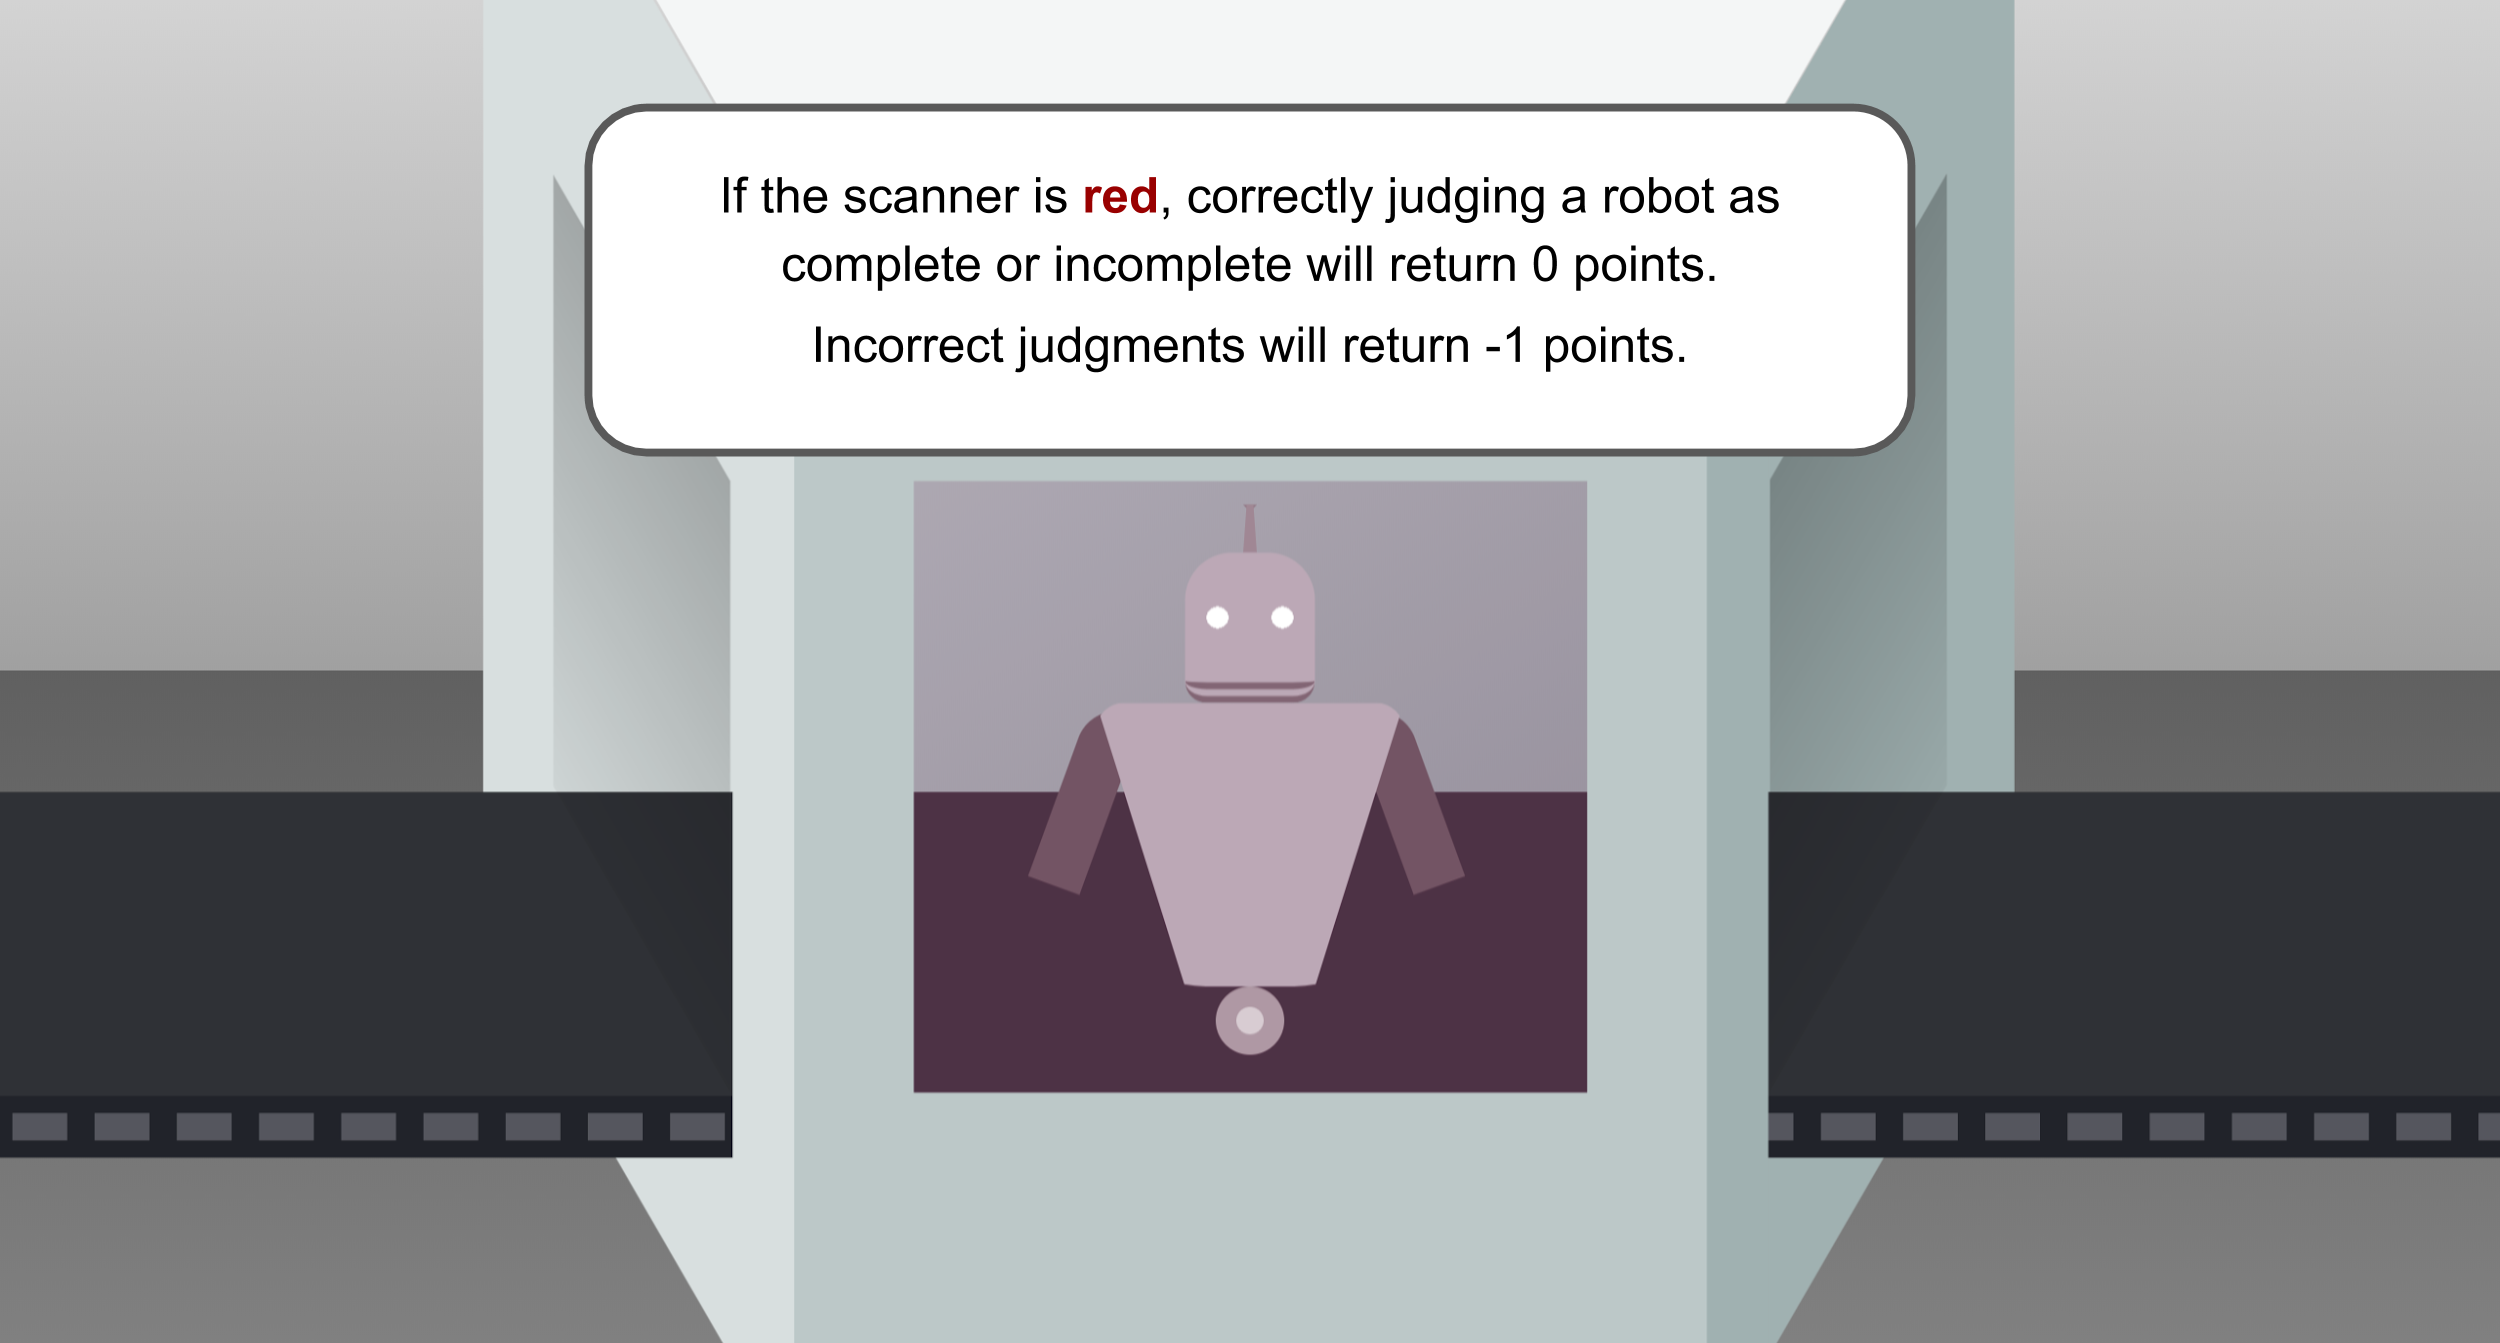
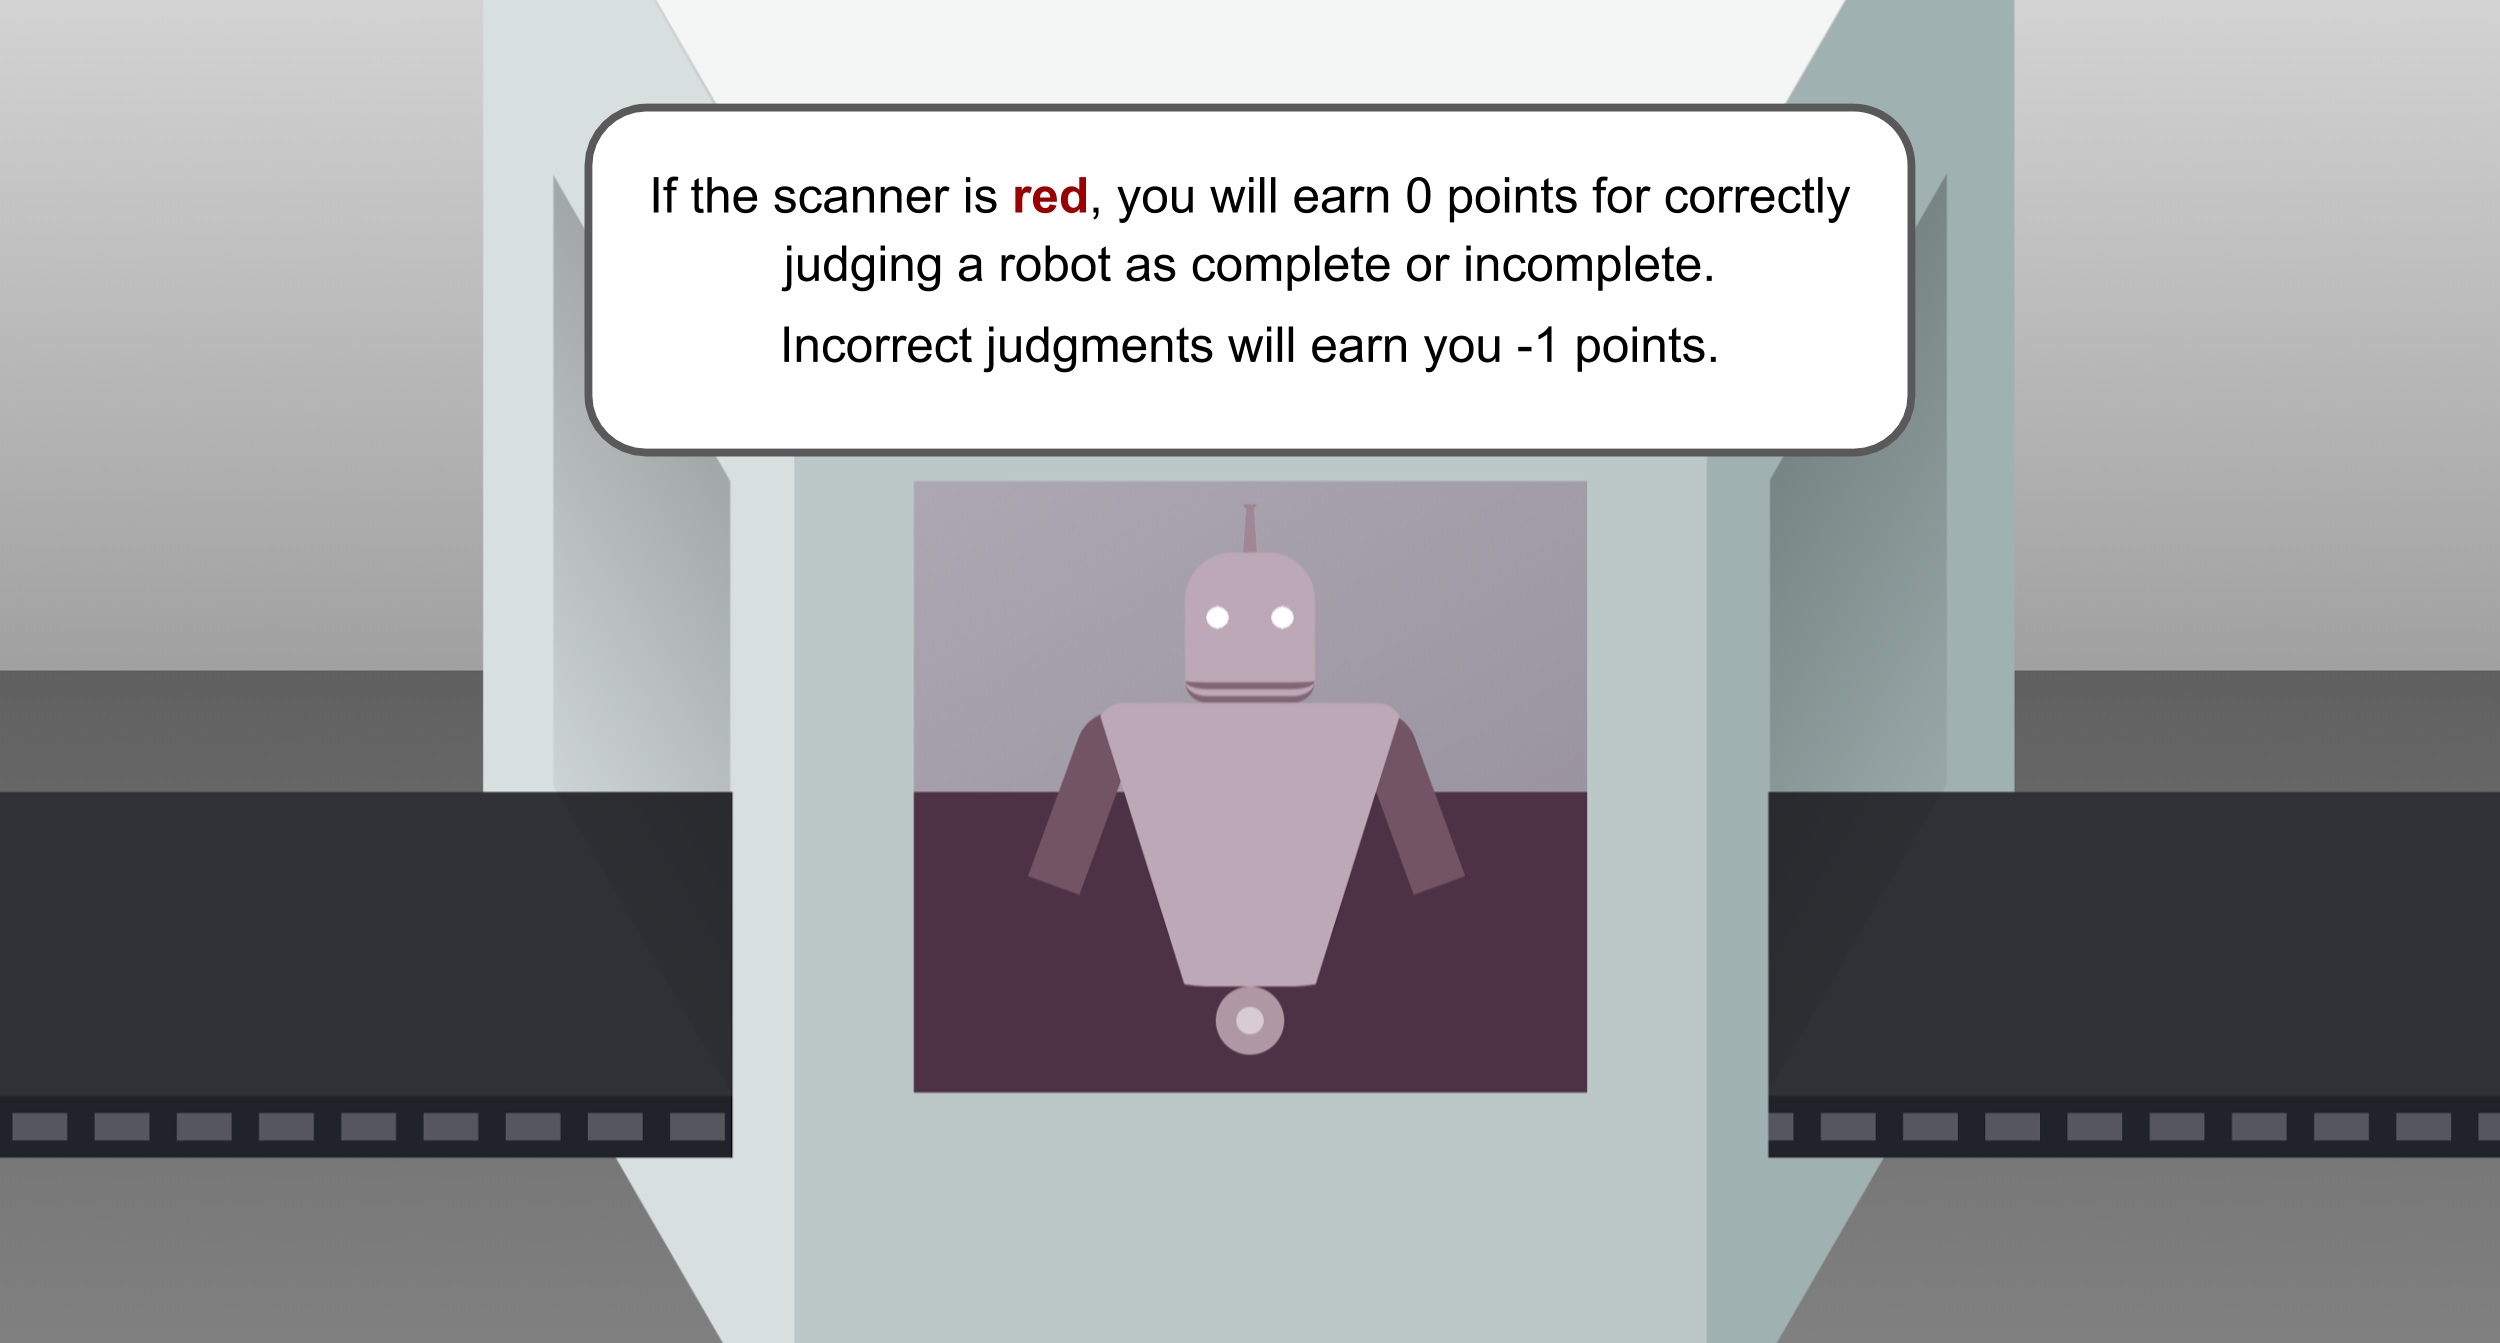
changes requested by yael

Changed region(s): [[0.2496, 0.1221, 0.7488, 0.2137], [0.312, 0.2442, 0.6864, 0.2748]]

diff --git a/app/static/js/jspsych-pit-comprehension.js b/app/static/js/jspsych-pit-comprehension.js
@@ -165,7 +165,7 @@ jsPsych.plugins['pit-comprehension'] = (function() {
     html += '<div id="jspsych-survey-multi-choice-1" class="jspsych-survey-multi-choice-question jspsych-survey-multi-choice-horizontal" data-name="probability">';
 
     // Add question text
-    html += '<p class="jspsych-survey-multi-choice-text survey-multi-choice">When the scanner light is <b><font color=#006600>green</font></b>, what is the best outcome?</p>';
+    html += '<p class="jspsych-survey-multi-choice-text survey-multi-choice">When the scanner light is <b><font color=#006600>green</font></b>, how many points will you earn for a correct judgment?</p>';
 
     // Option 1: More likely
     html += '<div id="jspsych-survey-multi-choice-option-1-0" class="jspsych-survey-multi-choice-option">';
@@ -197,7 +197,7 @@ jsPsych.plugins['pit-comprehension'] = (function() {
     html += '<div id="jspsych-survey-multi-choice-2" class="jspsych-survey-multi-choice-question jspsych-survey-multi-choice-horizontal" data-name="probability">';
 
     // Add question text
-    html += '<p class="jspsych-survey-multi-choice-text survey-multi-choice">When the scanner light is <b><font color=#b30000>red</font></b>, what is the best outcome?</p>';
+    html += '<p class="jspsych-survey-multi-choice-text survey-multi-choice">When the scanner light is <b><font color=#b30000>red</font></b>, how many points will you earn for a correct judgment?</p>';
 
     // Option 1: More likely
     html += '<div id="jspsych-survey-multi-choice-option-2-0" class="jspsych-survey-multi-choice-option">';

diff --git a/app/templates/experiment.html b/app/templates/experiment.html
@@ -42,6 +42,7 @@
       "../static/img/instructions12.png",
       "../static/img/instructions13.png",
       "../static/img/instructions14.png",
+      "../static/img/instructions15.png",
       "../static/img/rune01.png",
       "../static/img/rune02.png",
       "../static/img/rune03.png",
@@ -59,11 +60,11 @@
 
     // Define timeline.
     var timeline = [];
-    timeline = timeline.concat(INSTRUCTIONS_01);
-    timeline = timeline.concat(PRACTICE_GO);
-    timeline = timeline.concat(INSTRUCTIONS_02);
-    timeline = timeline.concat(PRACTICE_NO_GO);
-    timeline = timeline.concat(INSTRUCTIONS_03);
+    // timeline = timeline.concat(INSTRUCTIONS_01);
+    // timeline = timeline.concat(PRACTICE_GO);
+    // timeline = timeline.concat(INSTRUCTIONS_02);
+    // timeline = timeline.concat(PRACTICE_NO_GO);
+    // timeline = timeline.concat(INSTRUCTIONS_03);
     timeline = timeline.concat(COMPREHENSION);
     timeline = timeline.concat(INSTRUCTIONS_04);
     timeline = timeline.concat(PIT_01);

diff --git a/app/static/js/pit-instructions.js b/app/static/js/pit-instructions.js
@@ -32,6 +32,7 @@ var INSTRUCTIONS_03 = {
       "../static/img/instructions11.png",
       "../static/img/instructions12.png",
       "../static/img/instructions13.png",
+      "../static/img/instructions14.png",
     ],
     show_clickable_nav: true,
     button_label_previous: "Prev",
@@ -45,7 +46,7 @@ var COMPREHENSION = {
 var INSTRUCTIONS_04 = {
     type: 'pit-instructions',
     pages: [
-      "../static/img/instructions14.png",
+      "../static/img/instructions15.png",
     ],
     show_clickable_nav: true,
     button_label_previous: "Prev",

diff --git a/app/static/js/jspsych-pit-pause.js b/app/static/js/jspsych-pit-pause.js
@@ -97,7 +97,7 @@ jsPsych.plugins["pit-pause"] = (function() {
       }
 
       // Update HTML
-      display_element.querySelector('#message').innerHTML = "Get ready to learn a brand new set of robots.<br><br>Press any key to continue."; 
+      display_element.querySelector('#message').innerHTML = "Get ready to judge a brand new set of robots.<br><br>Press any key to continue."; 
 
       // Initialize second keyboard listener.
       var keyboardListener = "";
